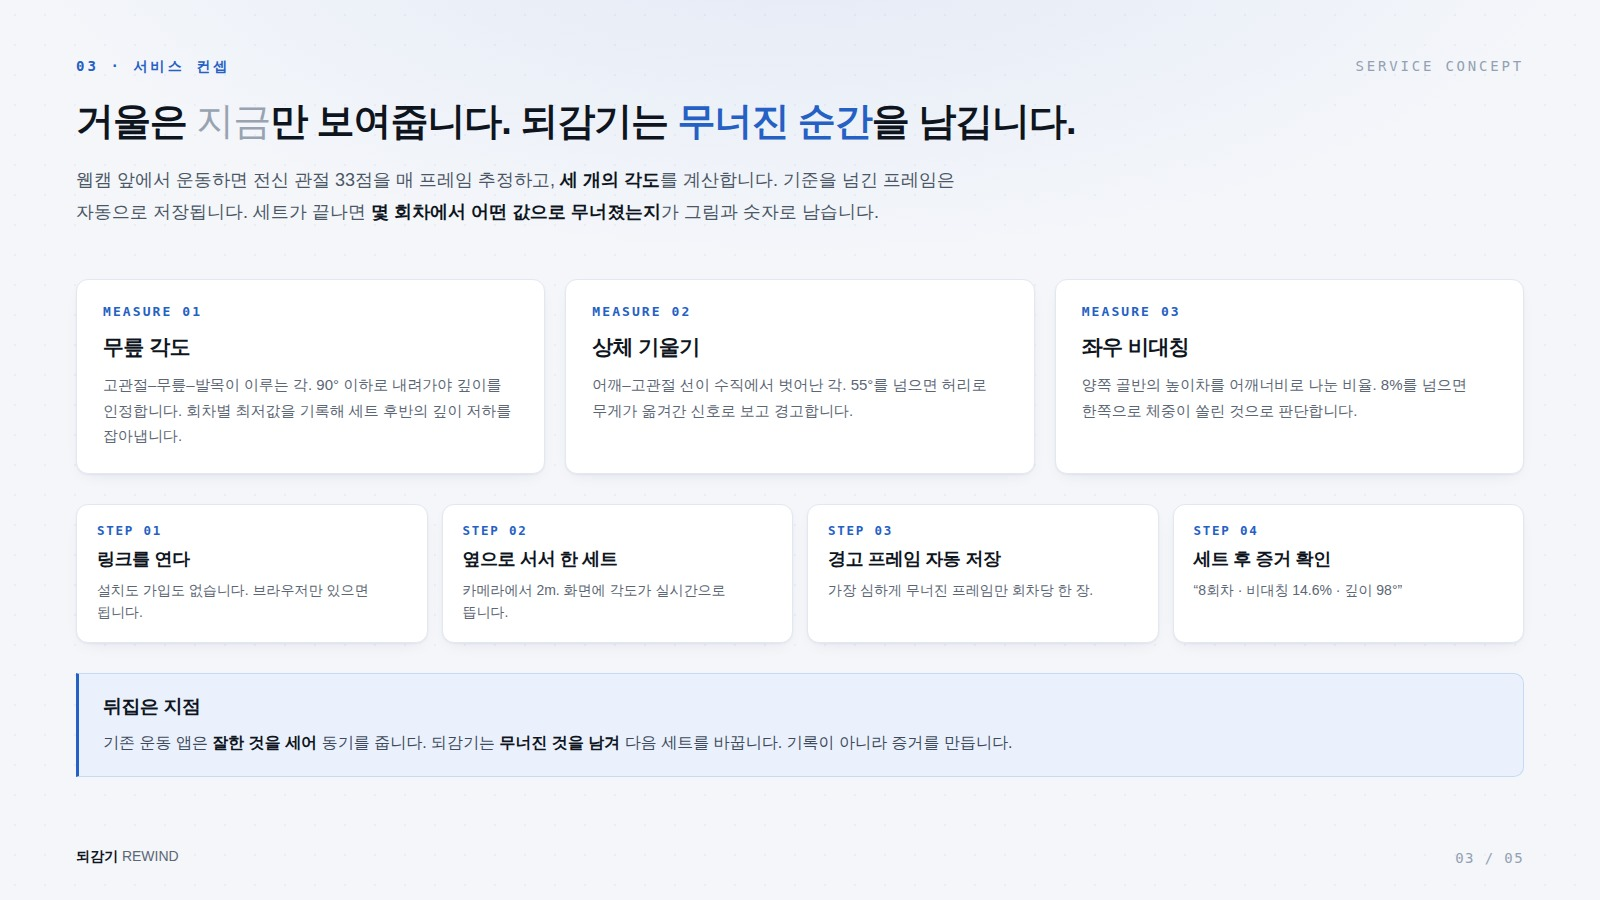
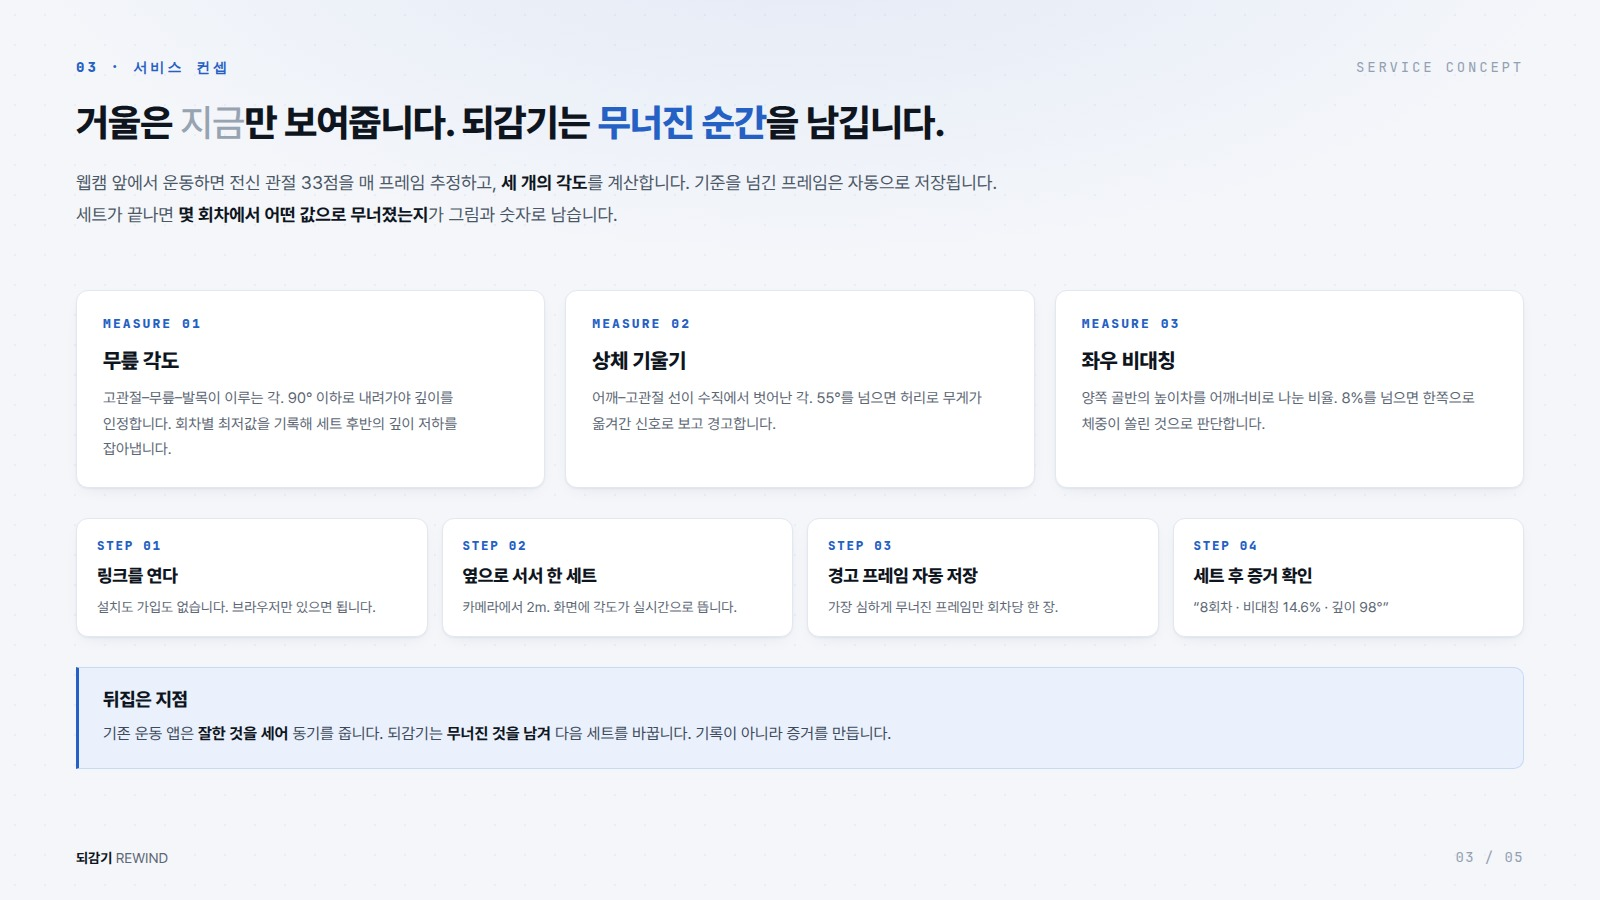
한글이 중국어 폰트로 렌더링되고 있었다 — 폰트 설치 후 자간·간격 재조정
소개서 JPEG를 뽑는 이 환경에 한글 폰트가 아예 없었다. fc-list :lang=ko에
WenQuanYi(중국어)와 Unifont만 나온다. 그래서 지금까지 만든 JPEG는 전부 한글이
중국어 폰트로 그려져 있었다. 자형이 어긋나고 자간이 뭉치는데, 눈으로는
"폰트가 좀 이상한데" 정도로만 보여서 놓치기 쉽다.

Pretendard 5종(Regular~ExtraBold)과 JetBrains Mono 3종을 설치하고 fc-cache를
다시 만들었다. raw.githubusercontent.com은 이 환경에서 열린다. CSS 스택도
Pretendard를 맨 앞으로 옮겼다. Pretendard Variable은 설치본에 없어서 두 번째에
있으면 걸리지 않는다.

폰트가 제대로 잡히자 자간이 과했다. 라틴 기준의 강한 음수 자간은 한글에서
글자가 붙어 보인다.
  h1 -.03em → -.021em (행간 1.3 → 1.34)
  h2 -.028em → -.019em (행간 1.32 → 1.36)
  카드·단계·노트 제목 -.025em → -.014em, 행간도 함께
  비교표 항목 1.55 → 1.62, 그림 캡션 1.55 → 1.62

잘린 글자 검사를 렌더 과정에 넣었다. 통계 카드의 "10명 중 8명"이 50px 고정폭
글꼴에서 카드를 넘치고 있었다. 숫자용 mono에 한글이 들어가면 폭이 어긋난다.
그 칸만 본문 글꼴 42px로 바꿨다.

앱 캡처 3장도 새 폰트로 다시 뽑아 소개서에 넣었다. 앱 본체도 데스크톱·모바일
양쪽에서 잘린 글자 없음, 가로 스크롤 없음, JS 오류 없음을 확인했다.

Claude-Session: https://claude.ai/code/session_019sxzSbM2XeYMZL1RYkfEDt

diff --git a/deck.html b/deck.html
@@ -11,7 +11,7 @@
   --warn:#A85614; --warn-soft:#FBF0E4;
   --ok:#147350;  --ok-soft:#E8F4EE;
   --line:#E2E8F1; --line-2:#D2DBE7;
-  --sans:'Pretendard Variable',Pretendard,-apple-system,'Apple SD Gothic Neo','Malgun Gothic','Noto Sans KR',sans-serif;
+  --sans:Pretendard,'Pretendard Variable',-apple-system,'Apple SD Gothic Neo','Malgun Gothic','Noto Sans KR',sans-serif;
   --mono:'JetBrains Mono',ui-monospace,Menlo,monospace;
   --shadow:0 1px 2px rgba(16,32,56,.05),0 6px 18px -8px rgba(16,32,56,.10);
 }
@@ -33,14 +33,14 @@ body{background:#000;font-family:var(--sans);-webkit-font-smoothing:antialiased;
 .brand b{color:var(--ink)}
 .pnum{position:absolute;right:76px;bottom:34px;font-size:14px;color:#93A0B2;letter-spacing:.1em;font-family:var(--mono)}
 .eyebrow{font-size:14px;letter-spacing:.22em;color:var(--accent);margin-bottom:20px;font-weight:700;font-family:var(--mono)}
-h1{font-size:46px;line-height:1.3;letter-spacing:-.03em;font-weight:800;text-wrap:balance}
-h2{font-size:38px;line-height:1.32;letter-spacing:-.028em;font-weight:800;text-wrap:balance}
+h1{font-size:46px;line-height:1.34;letter-spacing:-.021em;font-weight:800;text-wrap:balance}
+h2{font-size:38px;line-height:1.36;letter-spacing:-.019em;font-weight:800;text-wrap:balance}
 h1 .dim,h2 .dim{color:#98A3B2;font-weight:500}
 h1 .hi,h2 .hi{color:var(--accent)}
 .lead{font-size:18px;line-height:1.78;color:#4B5666;margin-top:18px;max-width:940px;text-wrap:pretty}
 .lead b{color:var(--ink);font-weight:700}
 .rule{height:1px;background:var(--line-2)}
-.big{font-size:24px;line-height:1.6;font-weight:700;letter-spacing:-.02em}
+.big{font-size:24px;line-height:1.66;font-weight:700;letter-spacing:-.012em}
 .big .hi{color:var(--accent)}
 .src{font-size:13px;color:var(--muted);line-height:1.7}
 
@@ -50,7 +50,7 @@ h1 .hi,h2 .hi{color:var(--accent)}
 .stat{border:1px solid var(--line);border-radius:12px;padding:24px 26px;background:var(--surface);box-shadow:var(--shadow)}
 .stat .n{font-size:50px;font-weight:800;letter-spacing:-.04em;line-height:1;color:var(--accent);font-family:var(--mono)}
 .stat .n small{font-size:24px;font-weight:700}
-.stat .l{font-size:16px;margin-top:14px;line-height:1.55;font-weight:700}
+.stat .l{font-size:16px;margin-top:14px;line-height:1.6;font-weight:700}
 .stat .s{font-size:13px;color:var(--muted);margin-top:9px;line-height:1.6}
 
 .strip{display:grid;grid-template-columns:repeat(8,1fr);gap:12px}
@@ -70,7 +70,7 @@ h1 .hi,h2 .hi{color:var(--accent)}
 .cmp .new{background:var(--accent-soft);border-color:#C6DAF6}
 .cmp .h{font-size:15px;letter-spacing:.12em;font-weight:700;margin-bottom:14px;font-family:var(--mono)}
 .cmp .old .h{color:var(--warn)} .cmp .new .h{color:var(--accent)}
-.cmp li{list-style:none;font-size:16px;line-height:1.55;padding:10px 0 10px 26px;position:relative;border-bottom:1px solid rgba(16,32,56,.07)}
+.cmp li{list-style:none;font-size:16px;line-height:1.62;padding:10px 0 10px 26px;position:relative;border-bottom:1px solid rgba(16,32,56,.07)}
 .cmp li:last-child{border:none}
 .cmp li:before{position:absolute;left:0;top:10px;font-weight:900}
 .cmp .old li:before{content:'\2715';color:var(--warn)}
@@ -79,32 +79,32 @@ h1 .hi,h2 .hi{color:var(--accent)}
 .cards{display:grid;grid-template-columns:repeat(3,1fr);gap:20px}
 .card{border:1px solid var(--line);border-radius:12px;padding:24px 26px;background:var(--surface);box-shadow:var(--shadow)}
 .card .k{font-size:13px;letter-spacing:.16em;color:var(--accent);margin-bottom:14px;font-weight:700;font-family:var(--mono)}
-.card .t{font-size:21px;font-weight:800;letter-spacing:-.025em;line-height:1.35}
+.card .t{font-size:21px;font-weight:800;letter-spacing:-.014em;line-height:1.4}
 .card .d{font-size:15px;color:var(--muted);line-height:1.7;margin-top:11px}
 
 .flow{display:grid;grid-template-columns:repeat(4,1fr);gap:14px}
 .fl{border:1px solid var(--line);border-radius:12px;padding:18px 20px;background:var(--surface);box-shadow:var(--shadow)}
 .fl .n{font-size:12.5px;color:var(--accent);letter-spacing:.14em;font-weight:700;font-family:var(--mono)}
-.fl .t{font-size:18px;font-weight:800;margin-top:9px;letter-spacing:-.02em}
+.fl .t{font-size:18px;font-weight:800;margin-top:9px;letter-spacing:-.012em;line-height:1.4}
 .fl .d{font-size:14px;color:var(--muted);margin-top:8px;line-height:1.6}
 
 .note{border:1px solid #C6DAF6;border-left:3px solid var(--accent);border-radius:0 10px 10px 0;
       padding:20px 24px;background:var(--accent-soft)}
-.note .t{font-size:19px;font-weight:800;letter-spacing:-.025em}
+.note .t{font-size:19px;font-weight:800;letter-spacing:-.014em}
 .note .d{font-size:16px;color:#3E4A5C;line-height:1.72;margin-top:9px}
 
 .biz{display:grid;grid-template-columns:repeat(3,1fr);gap:20px}
 .b{border:1px solid var(--line);border-radius:12px;padding:22px 24px;background:var(--surface);box-shadow:var(--shadow)}
 .b .tag{display:inline-block;font-size:12.5px;font-weight:800;letter-spacing:.1em;color:#fff;
         background:var(--accent);padding:5px 12px;border-radius:6px;font-family:var(--mono)}
-.b .t{font-size:21px;font-weight:800;margin-top:14px;letter-spacing:-.025em}
+.b .t{font-size:21px;font-weight:800;margin-top:14px;letter-spacing:-.014em}
 .b .d{font-size:15px;color:var(--muted);line-height:1.7;margin-top:10px}
 
 /* 앱 화면은 어둡다. 흰 카드 안에 액자처럼 넣어 제품 컷으로 읽히게 한다 */
 .fig{border:1px solid var(--line);border-radius:12px;overflow:hidden;background:var(--surface);
      box-shadow:var(--shadow);display:flex;flex-direction:column}
 .fig img{width:100%;display:block;background:#0B0E14;border-bottom:1px solid var(--line)}
-.fig .cap{padding:13px 17px;font-size:14px;color:var(--muted);line-height:1.55}
+.fig .cap{padding:14px 18px;font-size:14px;color:var(--muted);line-height:1.62}
 .fig .cap b{color:var(--ink)}
 </style></head><body>
 
@@ -127,7 +127,7 @@ h1 .hi,h2 .hi{color:var(--accent)}
         <div class="s">연평균 2.4회 부상. 주된 원인은 무리한 동작.</div>
       </div>
       <div class="stat">
-        <div class="n">10명 중 8명</div>
+        <div class="n" style="font-family:var(--sans);font-size:42px;letter-spacing:-.035em;line-height:1.2">10명 중 8명</div>
         <div class="l">집에서 운동해 본 경험이 있는 성인</div>
         <div class="s">스쿼트·플랭크는 20대 응답률이 가장 높은 종목.</div>
       </div>
